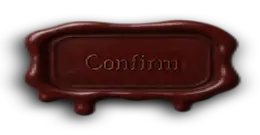
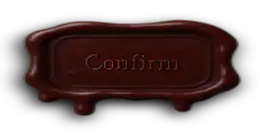
pricing

diff --git a/frontend/src/components/HeadFootComponents/HeaderComponent.vue b/frontend/src/components/HeadFootComponents/HeaderComponent.vue
@@ -1,0 +1,62 @@
+<template>
+    <header class="fixed inset-x-0 top-0 z-50 bg-black/30 backdrop-blur-sm">
+      <div class="max-w-screen-2xl mx-auto px-4 sm:px-6 lg:px-8">
+        <div class="flex items-center justify-between h-16">
+          <router-link to="/" class="text-2xl font-bold text-gray-100 medieval select-none">Ervelus</router-link>
+  
+          <nav class="hidden md:flex items-center gap-6 text-gray-200">
+            <router-link to="/dashboard" class="px-4 py-2 rounded bg-white/10 hover:bg-white/20 transition text-gray-100">Dashboard</router-link>
+            <router-link to="/pricing" class="hover:text-gray-50 transition">Pricing</router-link>
+            <router-link to="/gallery" class="hover:text-gray-50 transition">Gallery</router-link>
+            <router-link to="/profile" class="hover:brightness-125 transition">
+              <svg xmlns="http://www.w3.org/2000/svg" class="h-8 w-8" fill="none" viewBox="0 0 24 24" stroke="currentColor" stroke-width="1.5">
+                <path stroke-linecap="round" stroke-linejoin="round" d="M15.75 7.5a3.75 3.75 0 11-7.5 0 3.75 3.75 0 017.5 0zM4.5 20.25a8.25 8.25 0 1115 0" />
+              </svg>
+            </router-link>
+          </nav>
+  
+          <button @click="isOpen = !isOpen" class="md:hidden text-gray-200 hover:text-gray-50 focus:outline-none">
+            <svg v-if="!isOpen" xmlns="http://www.w3.org/2000/svg" class="h-8 w-8" fill="none" viewBox="0 0 24 24" stroke="currentColor" stroke-width="1.5">
+              <path stroke-linecap="round" stroke-linejoin="round" d="M3.75 6.75h16.5M3.75 12h16.5M3.75 17.25h16.5" />
+            </svg>
+            <svg v-else xmlns="http://www.w3.org/2000/svg" class="h-8 w-8" fill="none" viewBox="0 0 24 24" stroke="currentColor" stroke-width="1.5">
+              <path stroke-linecap="round" stroke-linejoin="round" d="M6 18L18 6M6 6l12 12" />
+            </svg>
+          </button>
+        </div>
+      </div>
+  
+      <transition name="fade">
+        <div v-if="isOpen" class="md:hidden bg-black/70 backdrop-blur-sm text-gray-200">
+          <div class="px-4 py-4 flex flex-col gap-4">
+            <router-link to="/dashboard" class="px-4 py-2 rounded bg-white/10 hover:bg-white/20 transition text-gray-100">Dashboard</router-link>
+            <router-link to="/pricing" class="hover:text-gray-50 transition">Pricing</router-link>
+            <router-link to="/gallery" class="hover:text-gray-50 transition">Gallery</router-link>
+            <router-link to="/profile" class="hover:brightness-125 transition flex items-center gap-2">
+              <svg xmlns="http://www.w3.org/2000/svg" class="h-6 w-6" fill="none" viewBox="0 0 24 24" stroke="currentColor" stroke-width="1.5">
+                <path stroke-linecap="round" stroke-linejoin="round" d="M15.75 7.5a3.75 3.75 0 11-7.5 0 3.75 3.75 0 017.5 0zM4.5 20.25a8.25 8.25 0 1115 0" />
+              </svg>
+              Profile
+            </router-link>
+          </div>
+        </div>
+      </transition>
+    </header>
+  </template>
+  
+  <script setup>
+  import { ref } from 'vue';
+  
+  const isOpen = ref(false);
+  </script>
+  
+  <style scoped>
+  .fade-enter-active,
+  .fade-leave-active {
+    transition: opacity 0.2s ease;
+  }
+  .fade-enter-from,
+  .fade-leave-to {
+    opacity: 0;
+  }
+  </style> 

diff --git a/frontend/src/components/PricingComponent.vue b/frontend/src/components/PricingComponent.vue
@@ -1,16 +1,16 @@
 <template>
-  <div class="w-full max-w-screen-2xl mx-auto px-8 pt-14 pb-16">
+  <div class="w-full max-w-screen-2xl mx-auto px-1 md:px-8 pt-5 pb-16">
     <div class="text-center mb-9">
       <h1 class="text-4xl font-bold text-gray-500 md:text-5xl medieval">
         Contracts
       </h1>
     </div>
 
-    <div class="grid grid-cols-1 gap-7 md:grid-cols-3 transform relative translate-x-6 translate-y-8 md:translate-y-34">
+    <div class="grid grid-cols-1 gap-7 xl:grid-cols-3 justify-items-center mt-8 md:mt-12">
       <div 
         v-for="plan in plans" 
         :key="plan.name" 
-        class="plan-card relative flex flex-col transform w-[410px] h-[620px]"
+        class="plan-card relative flex flex-col w-full md:max-w-md h-[700px]"
       >
         <div class="px-6 py-3">
           <h2 class="text-3xl font text-center text-black medieval">{{ plan.name }}</h2>
@@ -33,9 +33,10 @@
             </li>
           </ul>
           <div class="absolute inset-x-0 bottom-2 flex justify-center">
-            <button @click="buy(plan)" class="inline-flex justify-center p-0 transform hover:scale-103 transition focus:outline-none select-none">
+            <button v-if="isAuth" @click="buy(plan)" class="inline-flex justify-center p-0 transform hover:scale-103 transition focus:outline-none select-none">
               <img src="@/assets/button.webp" alt="Buy plan"/>
             </button>
+            <div v-else class="text-sm text-gray-500">Login to purchase</div>
           </div>
         </div>
       </div>
@@ -45,12 +46,18 @@
 
 <script setup>
 import { ref } from 'vue';
+import { useAuthStore } from '@/stores/auth.js';
+import { computed } from 'vue';
+
+const auth = useAuthStore();
+const isAuth = computed(() => auth.isAuthenticated);
 
 const plans = ref([
   {
     name: 'Amateur',
     description: 'For individuals starting out.',
     price: '$6',
+    priceId: 'pri_01k0sqayfc077m9kww2b80qcty',
     features: [
       '10 projects',
       '5 GB of storage',
@@ -61,6 +68,7 @@ const plans = ref([
     name: 'Journeyman',
     description: 'For small teams and professionals.',
     price: '$29',
+    priceId: 'pri_01k0sqayfc077m9kww2b80qcty',
     features: [
       'Unlimited projects',
       '50 GB of storage',
@@ -72,6 +80,7 @@ const plans = ref([
     name: 'Master',
     description: 'For large organizations.',
     price: '$99',
+    priceId: 'pri_01k0sqayfc077m9kww2b80qcty',
     features: [
       'Unlimited projects & storage',
       'Custom analytics',
@@ -83,7 +92,13 @@ const plans = ref([
 ]);
 
 function buy(plan){
-  console.log('Purchase',plan.name);
+  window.Paddle.Checkout.open({
+    items: [
+      { priceId: plan.priceId, quantity: 1 }
+    ],
+    theme: 'dark',
+    displayMode: 'overlay'
+  });
 }
 </script>
 
@@ -106,6 +121,13 @@ function buy(plan){
   background-position:center;
   background-repeat:no-repeat;
   z-index:-1;
+}
+
+@media (max-width: 767px) {
+  .plan-card {
+    width: 28rem !important;
+    max-width: 100%;
+  }
 }
 
 </style>

diff --git a/frontend/src/components/HeadFootComponents/FooterComponent.vue b/frontend/src/components/HeadFootComponents/FooterComponent.vue
@@ -1,0 +1,15 @@
+<template>
+  <footer class="border-t border-white/10 bg-black/30 text-gray-400">
+    <div class="max-w-screen-2xl mx-auto px-4 py-4 flex flex-col items-center md:flex-row md:justify-between gap-2">
+      <p class="text-sm select-none">&copy; {{ year }} Ervelus. All rights reserved.</p>
+      <div class="flex items-center gap-4">
+        <router-link to="/privacy-policy" class="hover:text-white transition">Privacy Policy</router-link>
+        <router-link to="/terms-of-service" class="hover:text-white transition">Terms of Service</router-link>
+      </div>
+    </div>
+  </footer>
+</template>
+
+<script setup>
+const year = new Date().getFullYear();
+</script>

diff --git a/frontend/src/main.js b/frontend/src/main.js
@@ -9,7 +9,7 @@ import router from './router'
 import api from './services/api'
 
 async function initializeApp() {
-  await api.get('/api/get-csrf-token/');
+  await api.get('/api/auth/csrf-token/');
 
   const app = createApp(App)
   const pinia = createPinia()
@@ -17,7 +17,7 @@ async function initializeApp() {
   app.use(pinia)
   app.use(router)
   app.use(GoogleSignInPlugin, {
-    clientId: '843713679678-0uev2hp893rnt24bm6rujisimkfocqbv.apps.googleusercontent.com'
+    clientId: '533652113906-hnenie5h5ge7fou1ctvno0l0f748ginl.apps.googleusercontent.com'
   });
   
   app.mount('#app')

diff --git a/frontend/index.html b/frontend/index.html
@@ -7,6 +7,15 @@
     <link rel="preconnect" href="https://fonts.googleapis.com">
     <link rel="preconnect" href="https://fonts.gstatic.com" crossorigin>
     <link href="https://fonts.googleapis.com/css2?family=Manrope:wght@400;700&display=swap" rel="stylesheet">
+
+    <script src="https://cdn.paddle.com/paddle/v2/paddle.js"></script>
+    <script type="text/javascript">
+      Paddle.Environment.set("sandbox");
+      Paddle.Initialize({ 
+        token: 'test_d1b7d123c2e298499433b486045'
+      });
+      
+    </script>
     <title>Vite App</title>
   </head>
   <body>

diff --git a/frontend/src/views/PricingPage.vue b/frontend/src/views/PricingPage.vue
@@ -1,11 +1,15 @@
 <template>
-  <div class="background-container">
+  <HeaderComponent />
+  <div class="background-container pt-16 md:pt-20">
     <PricingComponent />
   </div>
+  <FooterComponent />
 </template>
 
 <script setup>
 import PricingComponent from '@/components/PricingComponent.vue';
+import HeaderComponent from '@/components/HeadFootComponents/HeaderComponent.vue';
+import FooterComponent from '@/components/HeadFootComponents/FooterComponent.vue';
 </script>
 
 <style scoped>

diff --git a/frontend/vite.config.js b/frontend/vite.config.js
@@ -19,7 +19,7 @@ export default defineConfig({
     host: 'localhost',
     proxy: {
       '/api': {
-        target: 'http://127.0.0.1:8000',
+        target: 'https://backend.ervelus.com',
         changeOrigin: true,
         secure: false,
       },
